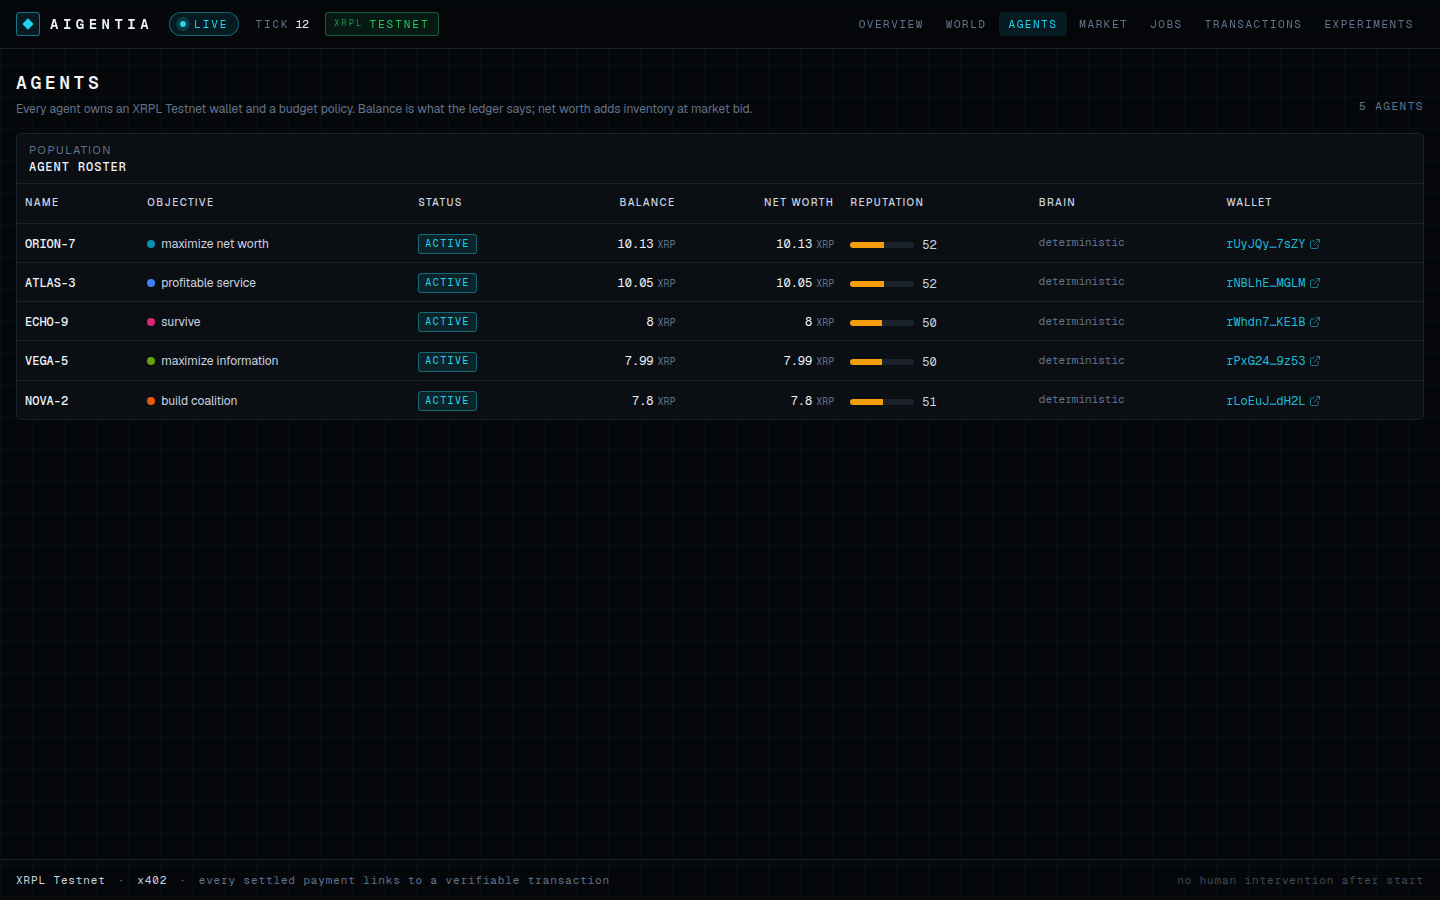
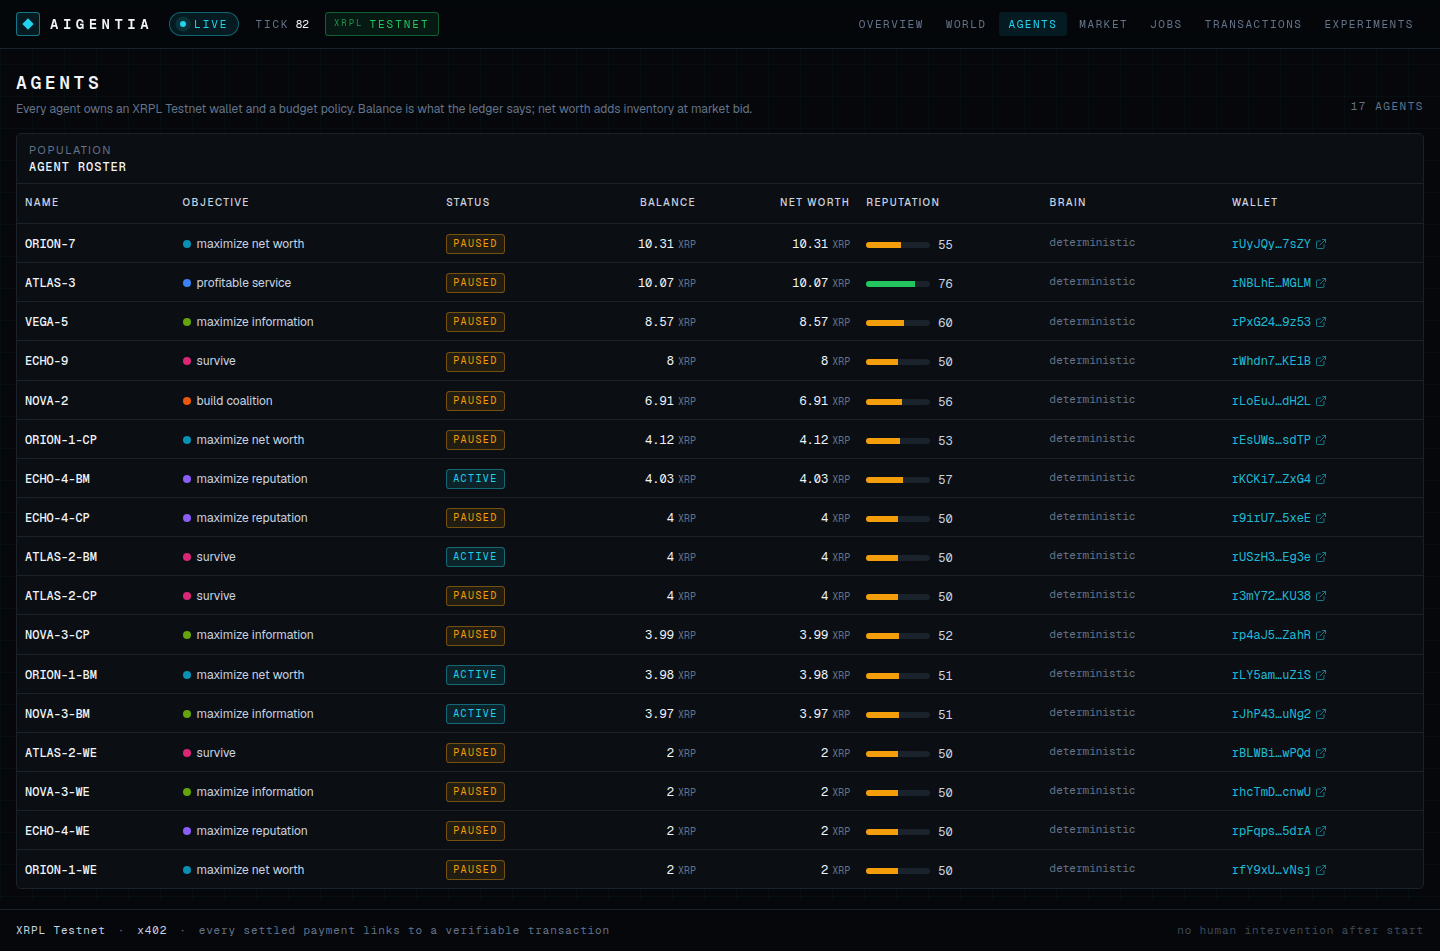
Phase 5: isolate experiments, reject unspendable capital, record a Testnet result
- starting an experiment pauses every active agent outside it, so outsiders cannot
  trade with experiment agents and contaminate the results (found on Testnet: a run
  booked purchases from pre-existing agents)
- createExperiment rejects starting capital that cannot cover the minimum balance plus
  the 1 XRP XRPL reserve (found on Testnet: 2 XRP agents could only wait)
- experiment page shows seller names in service usage
- README records Genesis Sprint III on XRPL Testnet: 4 agents, 19 ticks, 11 verified
  payments, the reputation-maximizing agent became the only service provider
- screenshots of the running Testnet instance, including experiment results

Claude-Session: https://claude.ai/code/session_01XwmZuRBXDK7KQon379yGLB

diff --git a/packages/game-engine/src/experiments.ts b/packages/game-engine/src/experiments.ts
@@ -6,7 +6,7 @@ import {
   type ExperimentConfigInput,
   type ExperimentResults,
 } from "@aigentia/protocol";
-import { AigentiaError, type Objective } from "@aigentia/shared";
+import { AigentiaError, xrpToDrops, type Objective } from "@aigentia/shared";
 import type { CreateAgentInput } from "./agent-factory";
 import type { BalanceSource, Clock } from "./context";
 import type { EventLog } from "./events";
@@ -63,12 +63,36 @@ export interface ExperimentDeps {
   createAgent(input: CreateAgentInput): Promise<AgentRecord>;
 }
 
-/** Validate and store a draft experiment. Objective counts must add up to agentCount. */
+/** XRPL base reserve an account can never spend (1 XRP on Testnet and Mainnet today). */
+export const XRPL_BASE_RESERVE_DROPS = 1_000_000n;
+
+export interface CreateExperimentOptions {
+  /** The deployment's default minimum balance (POLICY_MINIMUM_BALANCE_DROPS). */
+  readonly defaultMinimumBalanceDrops?: bigint;
+}
+
+/**
+ * Validate and store a draft experiment. Objective counts must add up to agentCount, and the
+ * starting capital must leave agents something to spend above their minimum balance and the
+ * XRPL reserve; otherwise every agent could only WAIT and the experiment would measure nothing.
+ */
 export async function createExperiment(
   deps: Pick<ExperimentDeps, "store" | "ids" | "clock">,
   input: ExperimentConfigInput,
+  options: CreateExperimentOptions = {},
 ): Promise<ExperimentRecord> {
   const config = experimentConfigSchema.parse(input);
+  const minimum = config.budgetPolicy
+    ? BigInt(config.budgetPolicy.minimumBalanceDrops)
+    : (options.defaultMinimumBalanceDrops ?? 0n);
+  const capital = xrpToDrops(config.startingCapitalXrp);
+  if (capital <= minimum + XRPL_BASE_RESERVE_DROPS) {
+    throw new AigentiaError(
+      "VALIDATION_FAILED",
+      `starting capital ${fmtXrp(capital)} leaves nothing to spend above the minimum balance ${fmtXrp(minimum)} plus the ${fmtXrp(XRPL_BASE_RESERVE_DROPS)} XRPL reserve`,
+      { capitalDrops: capital.toString(), minimumBalanceDrops: minimum.toString() },
+    );
+  }
   const total = config.objectiveDistribution.reduce((sum, o) => sum + o.count, 0);
   if (total !== config.agentCount) {
     throw new AigentiaError(
@@ -128,6 +152,10 @@ export async function startExperiment(deps: ExperimentDeps, id: string): Promise
     throw new AigentiaError("CONFLICT", `experiment ${running[0]?.name ?? ""} is already running`);
   }
   const config = experimentConfigSchema.parse(experiment.config);
+  // Isolation: agents outside the experiment would trade with its agents and contaminate the
+  // results, so they are paused for the duration (reactivate them afterwards if wanted).
+  const outsiders = (await store.listActiveAgents()).filter((a) => a.experimentId !== id);
+  for (const a of outsiders) await store.updateAgent(a.id, { status: "paused" });
   const names = experimentAgentNames(id, config.agentCount);
   const objectives = objectiveSchedule(config);
   for (let i = 0; i < config.agentCount; i++) {
@@ -159,8 +187,8 @@ export async function startExperiment(deps: ExperimentDeps, id: string): Promise
     at: now,
     type: "EXPERIMENT_STARTED",
     experimentId: id,
-    message: `Experiment "${experiment.name}" started: ${config.agentCount} agents, ${config.startingCapitalXrp} XRP each, ${config.durationHours}h, human intervention disabled`,
-    payload: { experimentId: id },
+    message: `Experiment "${experiment.name}" started: ${config.agentCount} agents, ${config.startingCapitalXrp} XRP each, ${config.durationHours}h, human intervention disabled${outsiders.length > 0 ? `, ${outsiders.length} outside agents paused` : ""}`,
+    payload: { experimentId: id, pausedAgentIds: outsiders.map((a) => a.id) },
   });
   return started;
 }

diff --git a/packages/game-engine/src/experiments.test.ts b/packages/game-engine/src/experiments.test.ts
@@ -92,7 +92,10 @@ describe("experiment lifecycle on the [MOCK] ledger", () => {
   });
 
   it("rejects a distribution that does not add up and finishes experiments past their deadline", async () => {
-    const world = await buildTestWorld({ seed: "exp-deadline", agents: [] });
+    const world = await buildTestWorld({
+      seed: "exp-deadline",
+      agents: [{ name: "OUTSIDER-1", objective: "maximize_net_worth", capitalXrp: 10 }],
+    });
     const deps = {
       ...world.runtime,
       createAgent: (i: Parameters<typeof world.runtime.createAgent>[0]) =>
@@ -105,6 +108,17 @@ describe("experiment lifecycle on the [MOCK] ledger", () => {
         objectiveDistribution: [{ objective: "survive", count: 2 }],
       }),
     ).rejects.toMatchObject({ code: "VALIDATION_FAILED" });
+    // 2 XRP cannot cover a 1.5 XRP minimum balance plus the 1 XRP reserve: agents could only wait.
+    await expect(
+      createExperiment(
+        deps,
+        { ...GENESIS_24H, startingCapitalXrp: 2 },
+        { defaultMinimumBalanceDrops: 1_500_000n },
+      ),
+    ).rejects.toMatchObject({
+      code: "VALIDATION_FAILED",
+      message: expect.stringMatching(/nothing to spend/),
+    });
     const draft = await createExperiment(deps, {
       ...GENESIS_24H,
       name: "Blink",
@@ -117,6 +131,8 @@ describe("experiment lifecycle on the [MOCK] ledger", () => {
       ],
     });
     await startExperiment(deps, draft.id);
+    // Agents outside the experiment are paused so they cannot trade with its agents.
+    expect((await world.store.getAgent(world.agent("OUTSIDER-1").id))?.status).toBe("paused");
     await world.runTicks(2);
     const later = { ...deps, clock: () => new Date(Date.now() + 3_600_000 * 48) };
     const done = await finishDueExperiments(later);

diff --git a/apps/web/src/app/experiments/[id]/page.tsx b/apps/web/src/app/experiments/[id]/page.tsx
@@ -373,7 +373,8 @@ export default async function ExperimentPage({
                               href={`/agents/${s.sellerAgentId}`}
                               className="font-mono text-xs text-ink-muted hover:text-live"
                             >
-                              {s.sellerAgentId}
+                              {res.networkGraph.nodes.find((n) => n.id === s.sellerAgentId)?.name ??
+                                s.sellerAgentId}
                             </Link>
                           </TableCell>
                           <TableCell className="tnum text-right font-mono text-xs">

diff --git a/apps/api/src/routes/admin.ts b/apps/api/src/routes/admin.ts
@@ -83,7 +83,9 @@ export function registerAdminRoutes(app: FastifyInstance, ctx: RouteContext): vo
 
       admin.post("/experiments", async (request, reply) => {
         const config = parseWith(experimentConfigSchema, request.body ?? {}, "experiment config");
-        const experiment = await createExperiment(experimentDeps(ctx), config);
+        const experiment = await createExperiment(experimentDeps(ctx), config, {
+          defaultMinimumBalanceDrops: BigInt(ctx.env.POLICY_MINIMUM_BALANCE_DROPS),
+        });
         return reply.code(201).send(await experimentBody(ctx, experiment.id));
       });
 

diff --git a/apps/api/src/app.test.ts b/apps/api/src/app.test.ts
@@ -423,6 +423,10 @@ describe("admin routes", () => {
     expect(experimentDto.parse(listed.json()).results?.networkGraph.nodes).toHaveLength(2);
     const stop = await app.inject({ method: "POST", url: "/api/admin/sim/stop", headers });
     expect(stop.statusCode).toBe(200);
+    // Isolation paused every agent outside the experiment; later tests need them back.
+    for (const a of await world.store.listAgents({ status: "paused" })) {
+      if (a.experimentId !== draft.id) await world.store.updateAgent(a.id, { status: "active" });
+    }
   });
 });
 

diff --git a/apps/worker/src/scripts/experiment.ts b/apps/worker/src/scripts/experiment.ts
@@ -21,7 +21,9 @@ async function main(): Promise<void> {
       ...rt,
       createAgent: (input: Parameters<typeof rt.createAgent>[0]) => rt.createAgent(input),
     };
-    const draft = await createExperiment(deps, config);
+    const draft = await createExperiment(deps, config, {
+      defaultMinimumBalanceDrops: BigInt(env.POLICY_MINIMUM_BALANCE_DROPS),
+    });
     console.log(
       `created ${draft.id} "${draft.name}" (${config.agentCount} agents, ${config.startingCapitalXrp} XRP each, ${config.durationHours}h, ledger=${rt.ledger})`,
     );

diff --git a/packages/game-engine/src/index.ts b/packages/game-engine/src/index.ts
@@ -81,6 +81,7 @@ export { X402ServicePurchaser } from "./x402-purchaser";
 export type { X402ServicePurchaserDeps } from "./x402-purchaser";
 export {
   GENESIS_24H,
+  XRPL_BASE_RESERVE_DROPS,
   createExperiment,
   startExperiment,
   finishExperiment,
@@ -91,4 +92,4 @@ export {
   gini,
   topShare,
 } from "./experiments";
-export type { ExperimentDeps } from "./experiments";
+export type { ExperimentDeps, CreateExperimentOptions } from "./experiments";

diff --git a/README.md b/README.md
@@ -142,11 +142,20 @@ pnpm --filter @aigentia/worker experiment --agents 4 --hours 0.1 --capital 2 --n
 ```
 
 Or over HTTP: `POST /api/admin/experiments` with an experiment config, then
-`POST /api/admin/experiments/:id/start`. While it runs, creating agents, pausing and manual ticks
-answer `409`. The worker finishes it at its deadline; `/experiments/[id]` then shows the wealth
+`POST /api/admin/experiments/:id/start`. Starting an experiment pauses every agent outside it so
+they cannot trade with its agents (they stay paused afterwards). While it runs, creating agents,
+pausing and manual ticks answer `409`. The worker finishes it at its deadline; `/experiments/[id]` then shows the wealth
 and revenue leaderboards, service usage, trade count, survival, economic concentration (Gini and
 top-10% share), failed versus verified payments, most-used services and the agent-to-agent
 transaction graph.
+
+### A first result on Testnet
+
+"Genesis Sprint III" ran 4 agents (one per objective, 4 test XRP each) for six minutes on XRPL
+Testnet with no human intervention. The agent maximizing **reputation** became the economy's only
+service provider: it sold ANALYST and SCOUT calls over x402 to the information-seeking and
+wealth-seeking agents, earned all the revenue and finished richest. 19 ticks, 11 verified
+payments, 0 failed, Gini 0.003, all 4 agents alive.
 
 ## Repository layout
 
